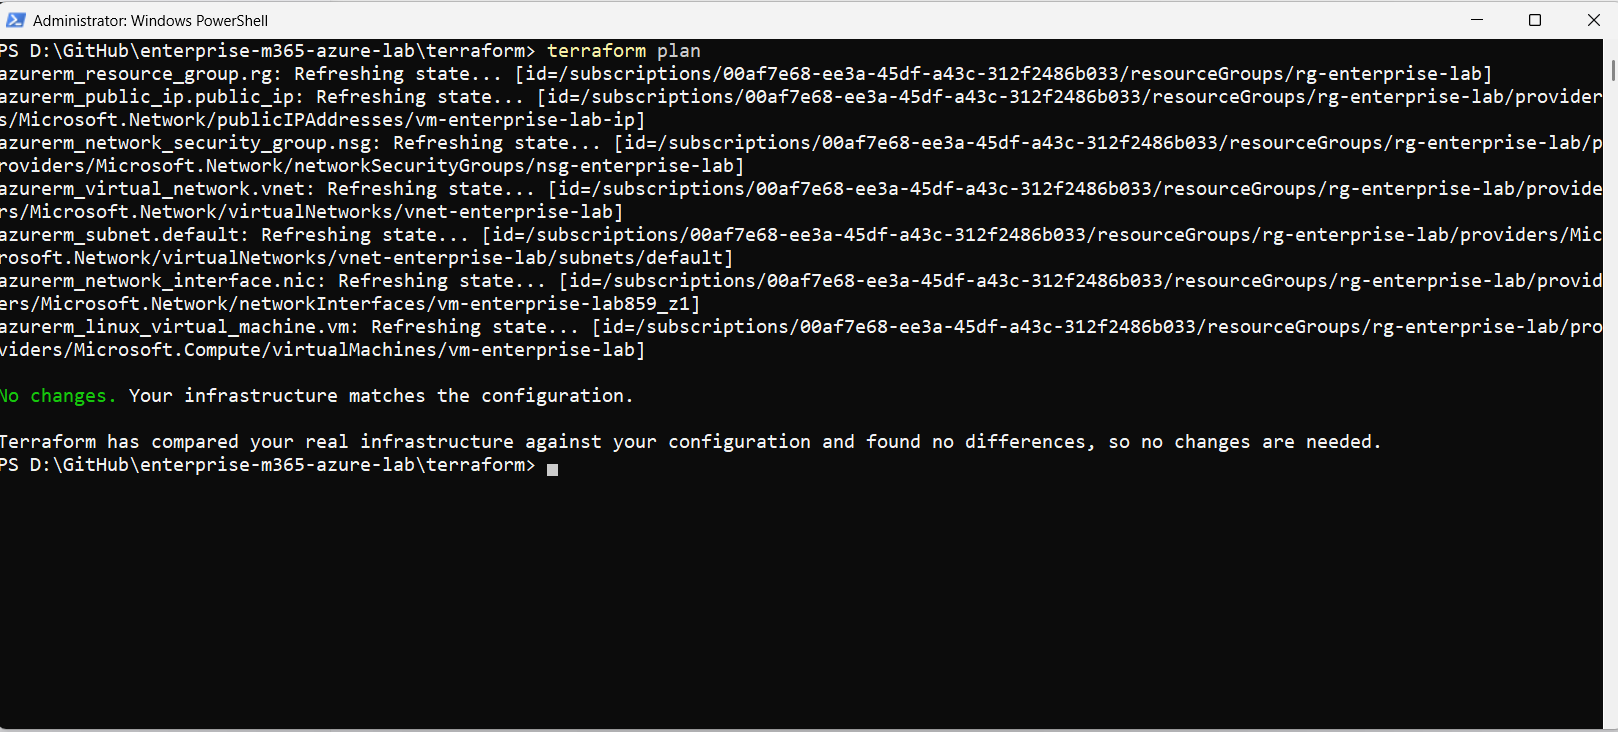
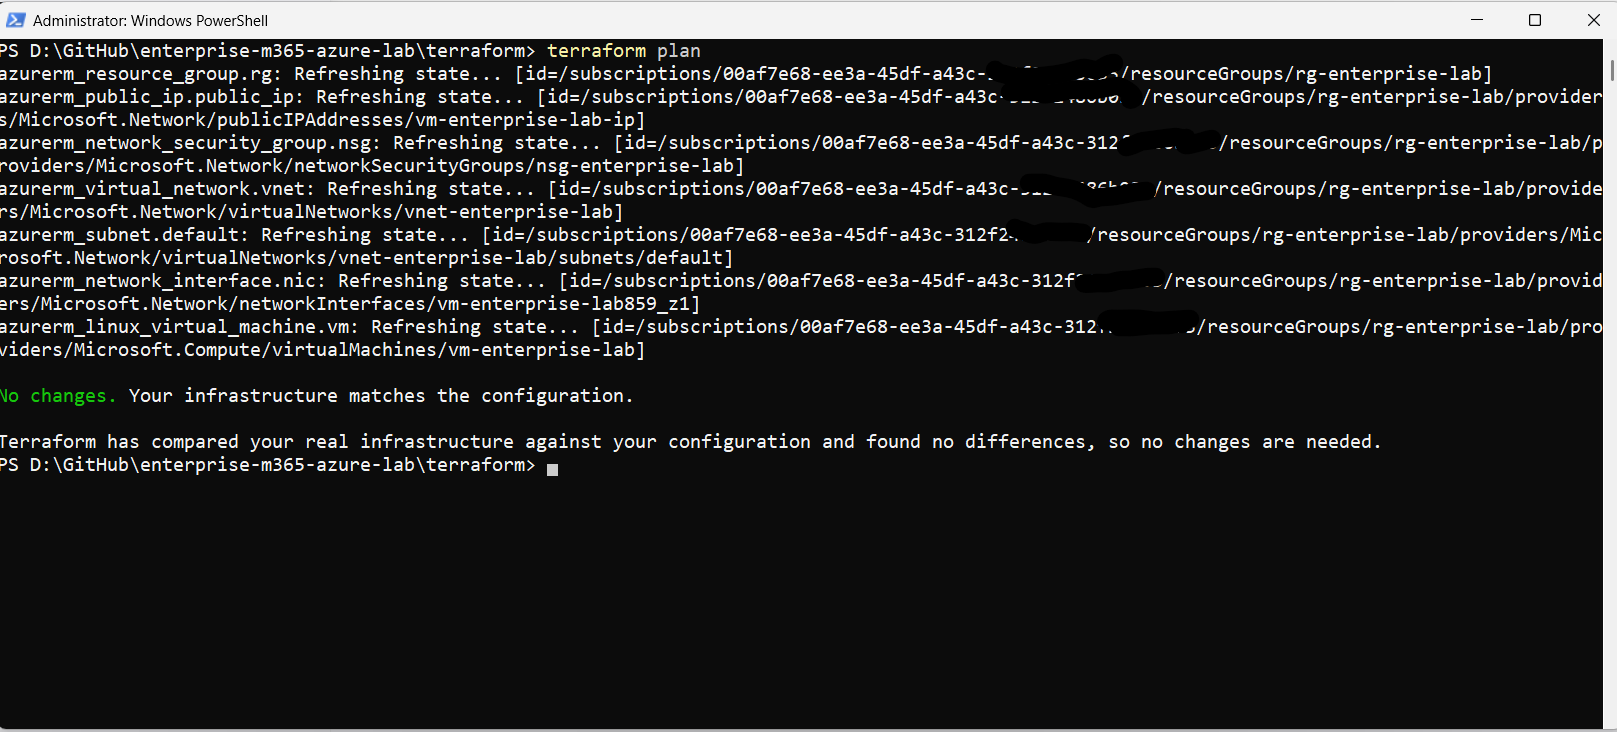
docs(terraform): enhance deployment documentation with backend migration screenshots
## Documentation

- Added project folder structure screenshot
- Added Terraform fmt and validate screenshots
- Added Terraform init screenshot
- Added Terraform plan (Storage Account and Blob Container) screenshot
- Added Terraform apply screenshot
- Added Azure CLI storage verification screenshot
- Added Azure Portal Storage Account screenshot
- Added Terraform backend migration screenshot
- Added Azure Blob tfstate verification screenshot
- Added Terraform state list screenshot
- Added final Terraform plan (No changes) screenshot

## Improvements

- Replaced placeholder screenshot references with actual deployment evidence
- Reorganized screenshots into deployment workflow order
- Improved Terraform deployment guide readability
- Better demonstrates Infrastructure as Code implementation and remote backend configuration
- Strengthened project documentation for portfolio and recruiter review

No infrastructure changes were made.
This commit updates project documentation only.

diff --git a/README.md b/README.md
@@ -71,6 +71,10 @@ The overall solution architecture is shown below.
 - Azure Storage Account
 - Remote Terraform Backend
 
+### Azure Storage Account
+
+![Azure Storage Account](screenshots/azure-blob-storage-stajmalterraform01.png)
+
 ## Infrastructure as Code
 
 - Modular Terraform configuration
@@ -190,6 +194,10 @@ Infrastructure is managed entirely through Terraform using reusable modules.
 - Infrastructure validation
 - GitHub Actions integration
 
+### Terraform Apply
+
+![Terraform Apply](screenshots/terraform-apply.png)
+
 The Terraform configuration follows Infrastructure as Code best practices, allowing infrastructure to be deployed consistently across environments.
 
 ---
@@ -199,6 +207,10 @@ The Terraform configuration follows Infrastructure as Code best practices, allow
 The project includes a reusable PowerShell module named **ITAutomation**.
 
 Unlike standalone scripts, the module is organised using enterprise PowerShell development practices, making it scalable, reusable, and easy to maintain.
+
+### ITAutomation Module
+
+![PowerShell Module](screenshots/powershell-modules.png)
 
 ## Module Features
 
@@ -228,6 +240,12 @@ Unlike standalone scripts, the module is organised using enterprise PowerShell d
 | Write-Log | Enterprise logging utility |
 | Start-Backup | Performs folder backups with logging and WhatIf support |
 
+
+### Backup Automation
+
+![Start Backup](screenshots/enterprise-Start-Backup.png)
+
+
 ### Module Structure
 
 ```text
@@ -247,6 +265,15 @@ ITAutomation
 ```
 
 The module demonstrates enterprise PowerShell development concepts including reusable architecture, modular design, advanced functions, structured output, and automation best practices.
+
+### Storage Reporting
+
+![Disk Report](screenshots/Get-DiskReport.png)
+
+
+### Parameter Validation
+
+![Validation](screenshots/Test-PathExists.png)
 
 ---
 
@@ -275,6 +302,11 @@ The module is intended to serve as a foundation for future automation covering A
 # Continuous Integration & Deployment (CI/CD)
 
 Infrastructure validation is automated using **GitHub Actions**, ensuring Terraform configurations are validated before deployment.
+
+### GitHub Actions Workflow
+
+![GitHub Actions](screenshots/GitHub-Actions-successful-run.png)
+
 
 ## CI Pipeline
 
@@ -322,6 +354,30 @@ Examples include:
 - Microsoft Entra ID
 - Microsoft Intune device management
 - Conditional Access policies
+
+
+## Azure Infrastructure
+
+![Terraform](screenshots/terraform-apply.png)
+
+---
+
+## GitHub Actions
+
+![GitHub Actions](screenshots/GitHub-Actions-successful-run.png)
+
+---
+
+## Enterprise PowerShell
+
+![Backup](screenshots/Backup-Folder-V3.png)
+
+---
+
+## Storage Reporting
+
+![Disk Report](screenshots/Get-DiskReport.png)
+
 
 These screenshots provide visual evidence of the completed implementation and support the accompanying technical documentation.
 

diff --git a/docs/azure/terraform-deployment.md b/docs/azure/terraform-deployment.md
@@ -46,6 +46,11 @@ terraform/
 └── terraform.tfvars
 ```
 
+## Project Folder Structure
+
+![Terraform Folder Structure](/screenshots/terraform-folder-structure.png)
+
+
 ---
 
 # Azure Resources Managed by Terraform
@@ -168,8 +173,6 @@ No changes.
 Your infrastructure matches the configuration.
 ```
 
----
-
 # Azure RBAC
 
 The Storage Account uses Azure AD authentication.
@@ -184,16 +187,42 @@ This allows Terraform to securely access Azure Blob Storage without using Storag
 
 # Screenshots
 
-| Screenshot | Description |
-|------------|-------------|
-| terraform-init.png | Terraform initialization |
-| terraform-import-rg.png | Importing Resource Group |
-| terraform-import-vm.png | Importing Linux Virtual Machine |
-| terraform-plan-clean.png | Successful validation |
-| terraform-init-migrate-state.png | Backend migration |
-| azure-storage-account.png | Storage Account |
-| azure-storage-container.png | Blob Container |
-| azure-storage-tfstate.png | Terraform state stored in Azure |
+### Format and Validate
+
+![Terraform Format and Validate](/screenshots/terraform-fmt-validate.png)
+### Initialize Terraform
+
+![Terraform Init](/screenshots/terraform-init.png)
+### Terraform Plan
+
+Terraform plans the creation of the Storage Account and Blob Container.
+
+![Terraform Plan](/screenshots/terraform-plan-storage.png)
+### Apply the Infrastructure
+
+Terraform creates the Storage Account and Blob Container.
+
+![Terraform Apply](/screenshots/terraform-apply-storage.png)
+### Verify Storage Account
+
+![Storage Account Verification](/screenshots/terraform-verify-storage.png)
+### Storage Account in Azure Portal
+
+![Azure Storage Account](/screenshots/terraform-storage-created-on-azure.png)
+### Migrate Terraform State
+
+![Backend Migration](/screenshots/terraform-migrate-state.png)
+### Terraform State Stored in Azure
+
+![Terraform State Blob](/screenshots/terraform-migrate-state-azure.png)
+### Verify Terraform State
+
+![Terraform State List](/screenshots/terraform-state-list.png)
+### Final Validation
+
+Terraform confirms the deployed Azure infrastructure matches the configuration.
+
+![Terraform Final Validation](/screenshots/terraform-plan.png)
 
 ---
 

diff --git a/docs/entra/entra-id.md b/docs/entra/entra-id.md
@@ -12,7 +12,7 @@ The following cloud-only users were created:
 
 ### Users Overview
 
-![Users Overview](../screenshots/entra-id/users-overview.png)
+![Users Overview](/screenshots/entra-id/users-overview.png)
 
 ---
 
@@ -26,16 +26,16 @@ The following cloud-only users were created:
 
 ### Groups Overview
 
-![Groups Overview](../screenshots/entra-id/groups-overview.png)
+![Groups Overview](/screenshots/entra-id/groups-overview.png)
 
 ### SG-IT Membership
 
-![SG-IT](../screenshots/entra-id/sg-it-members.png)
+![SG-IT](/screenshots/entra-id/sg-it-members.png)
 
 ### SG-HR Membership
 
-![SG-HR](../screenshots/entra-id/sg-hr-members.png)
+![SG-HR](/screenshots/entra-id/sg-hr-members.png)
 
 ### SG-Finance Membership
 
-![SG-Finance](../screenshots/entra-id/sg-finance-members.png)
+![SG-Finance](/screenshots/entra-id/sg-finance-members.png)

diff --git a/docs/entra/conditional-access.md b/docs/entra/conditional-access.md
@@ -126,15 +126,15 @@ This demonstrates the importance of validating security controls and understandi
 
 ### Conditional Access Policy Overview
 
-![Policy Overview](../screenshots/conditional-access/policy-overview.png)
+![Policy Overview](/screenshots/conditional-access/policy-overview.png)
 
 ### Policy Details
 
-![Policy Details](../screenshots/conditional-access/policy-details.png)
+![Policy Details](/screenshots/conditional-access/policy-details.png)
 
 ### Authentication Methods Registration Campaign
 
-![Registration Campaign](../screenshots/conditional-access/registration-campaign.png)
+![Registration Campaign](/screenshots/conditional-access/registration-campaign.png)
 
 ---
 
